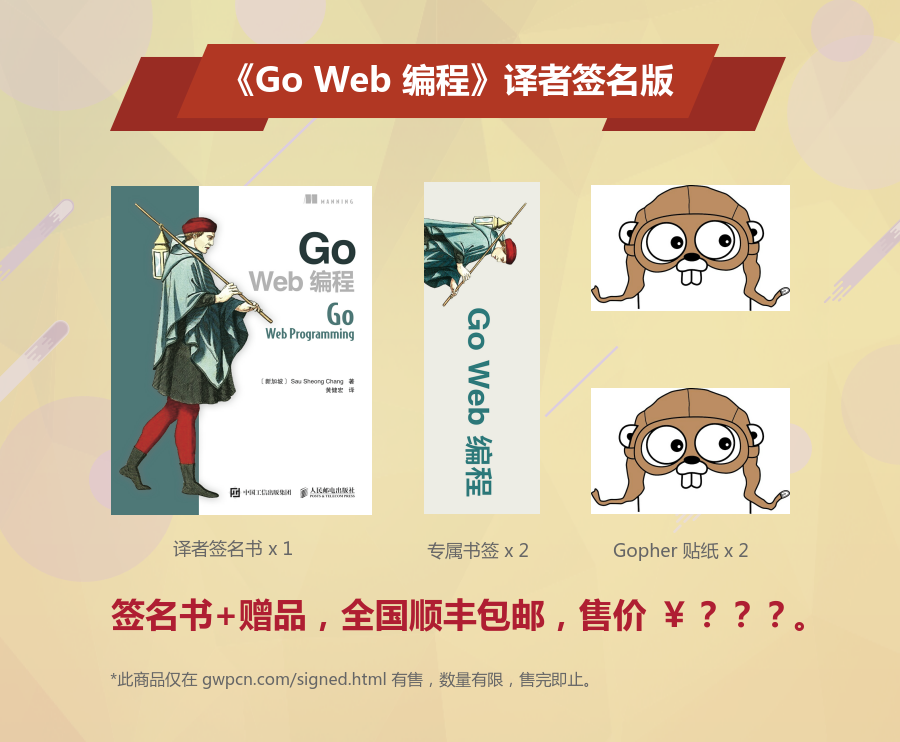
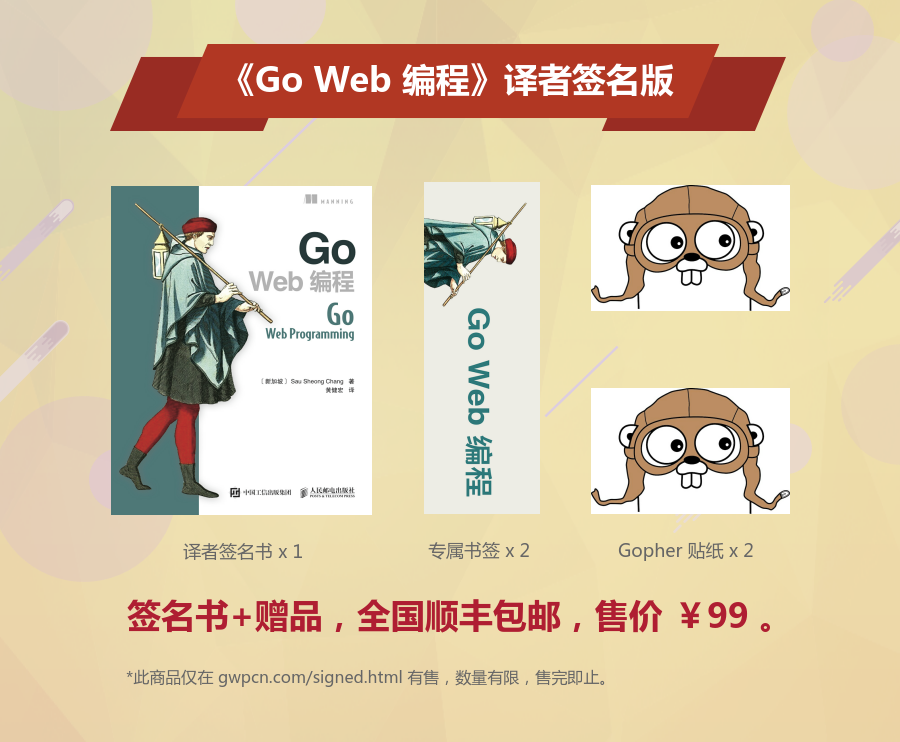
update build

diff --git a/signed.html b/signed.html
@@ -128,7 +128,7 @@
 《Go Web 编程》译者签名版都是您的不二之选。</p>
 <div class="section" id="id2">
 <h2>价格<a class="headerlink" href="#id2" title="永久链接至标题">¶</a></h2>
-<p>一份《Go Web 编程》签名版的价格为 ??? 元人民币，
+<p>一份《Go Web 编程》签名版的价格为 99 元人民币，
 其中包含以下物品和服务：</p>
 <ul class="simple">
 <li>译者签名的《Go Web 编程》一本</li>
